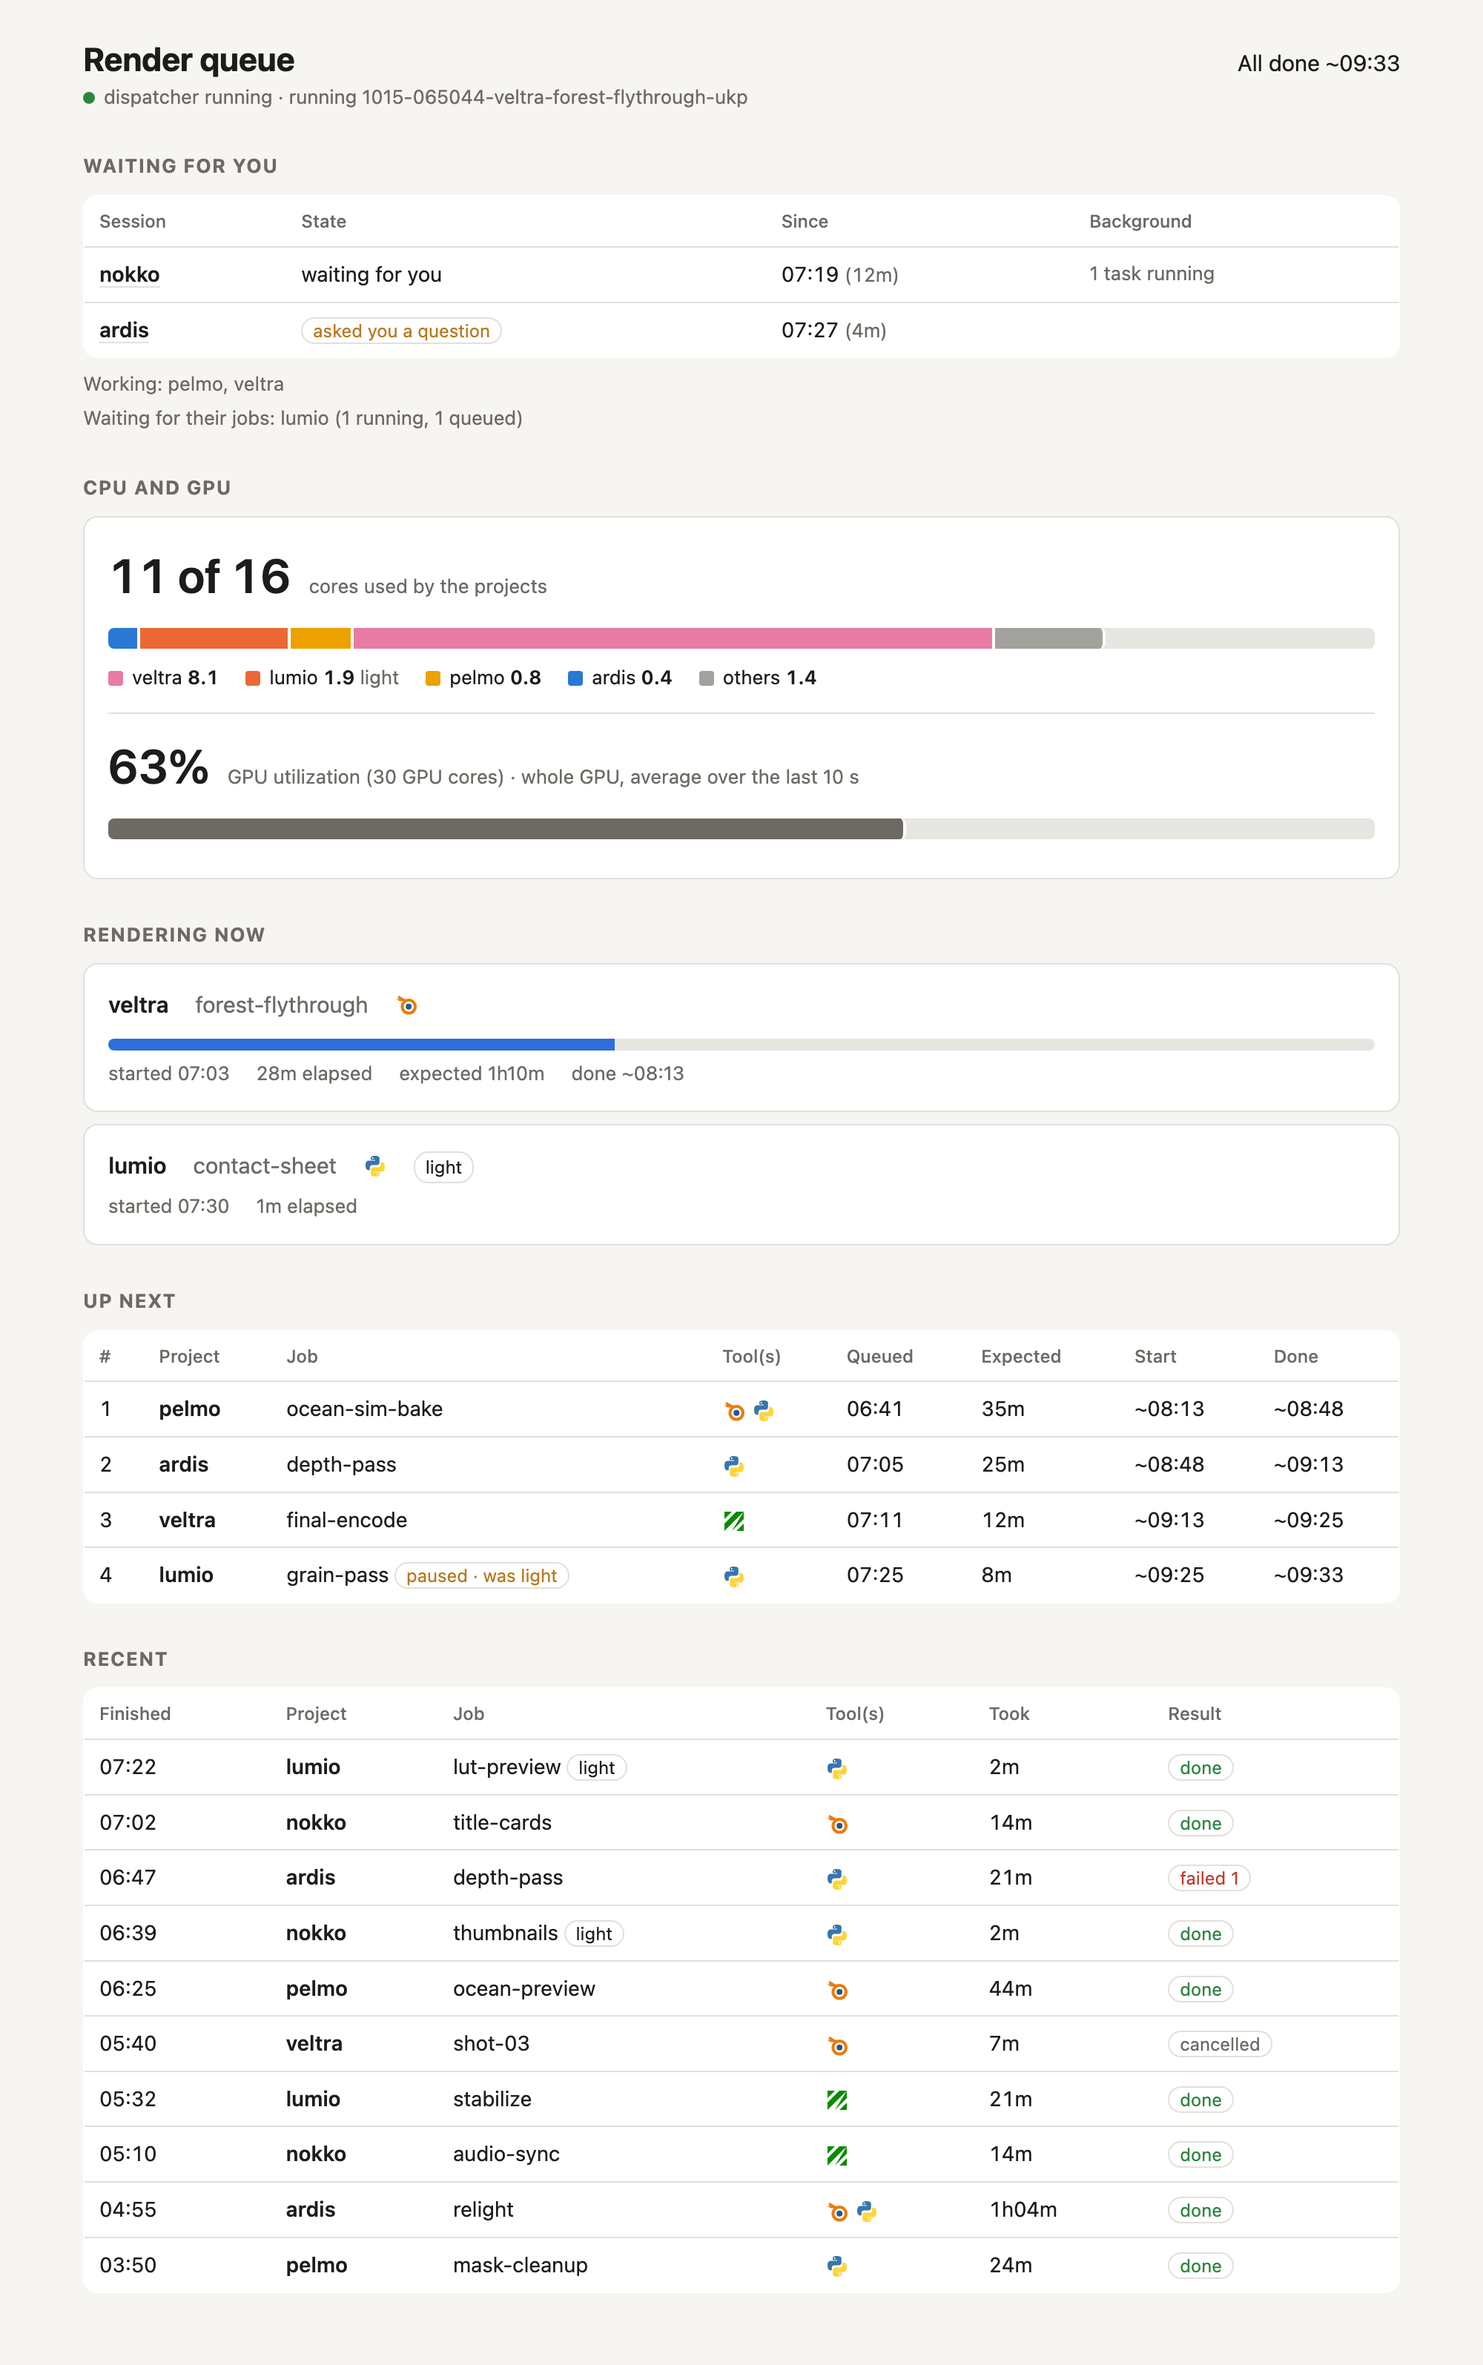
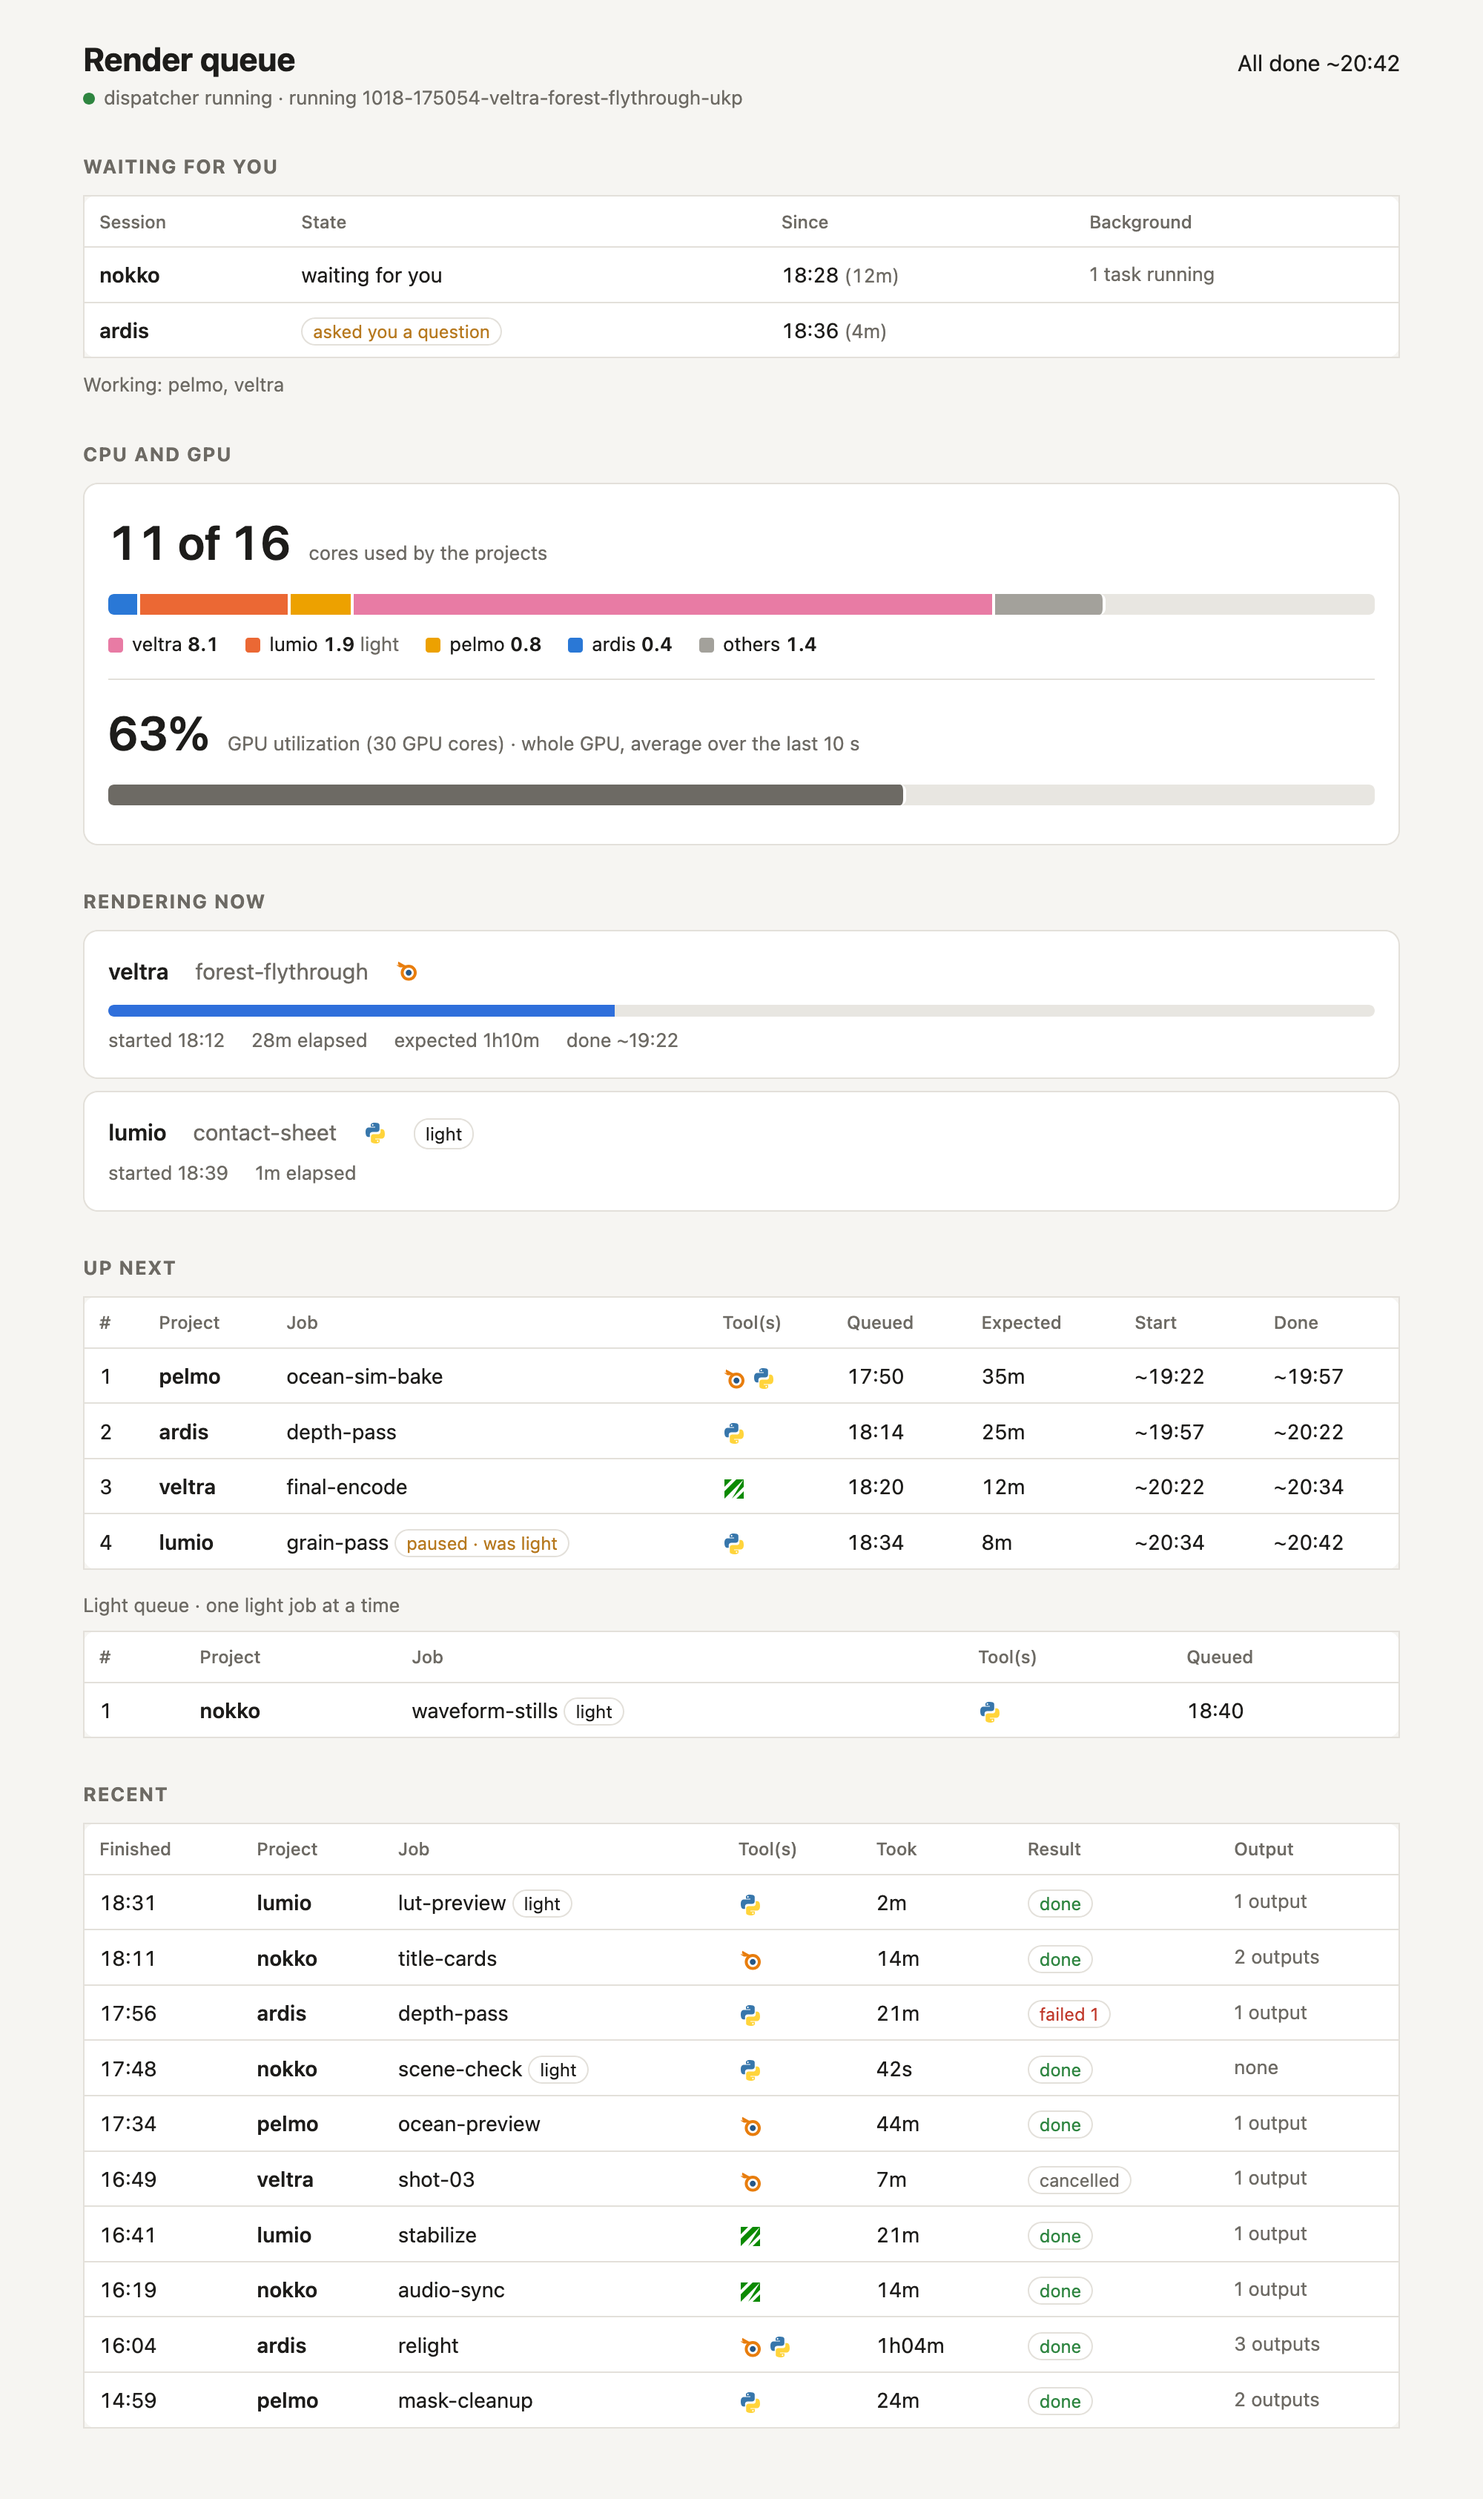
Update the status page screenshot: the light queue and the Output column

diff --git a/README.md b/README.md
@@ -6,7 +6,7 @@ low priority. A
 local status page shows the queue with expected start and end times, the CPU cores each project uses, the GPU load and
 which sessions are waiting for you.
 
-![The status page: sessions waiting for you, CPU and GPU use per project, the job rendering now next to a light job, the queue with expected start and end times, and recent jobs](docs/status.png)
+![The status page: sessions waiting for you, CPU and GPU use per project, the job rendering now next to a light job, the queue with expected start and end times, the light queue, and recent jobs with how many outputs each declared](docs/status.png)
 
 ## Setup
 
